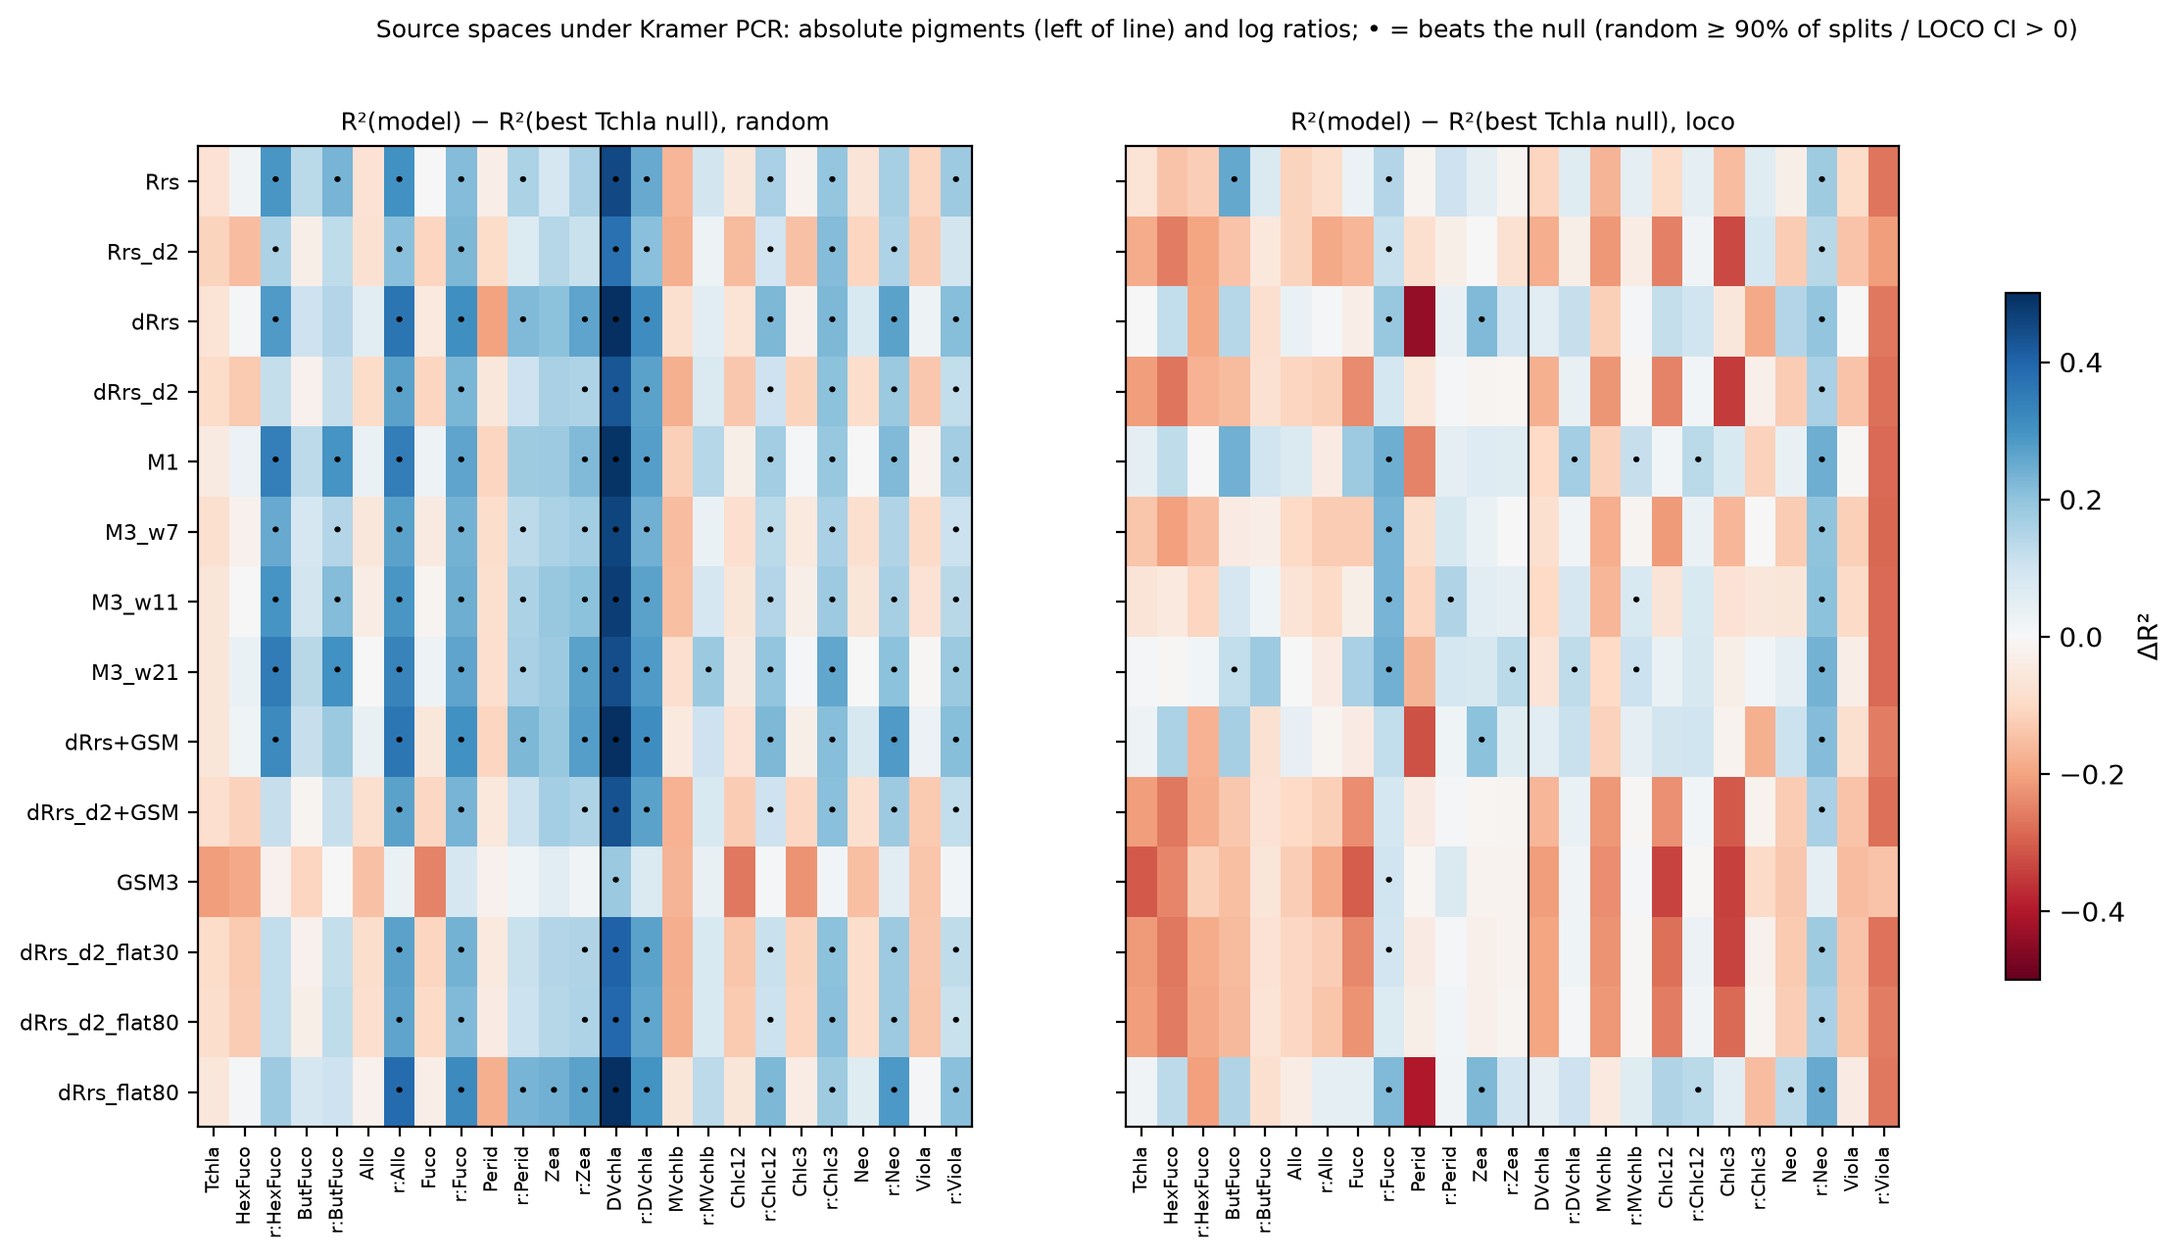
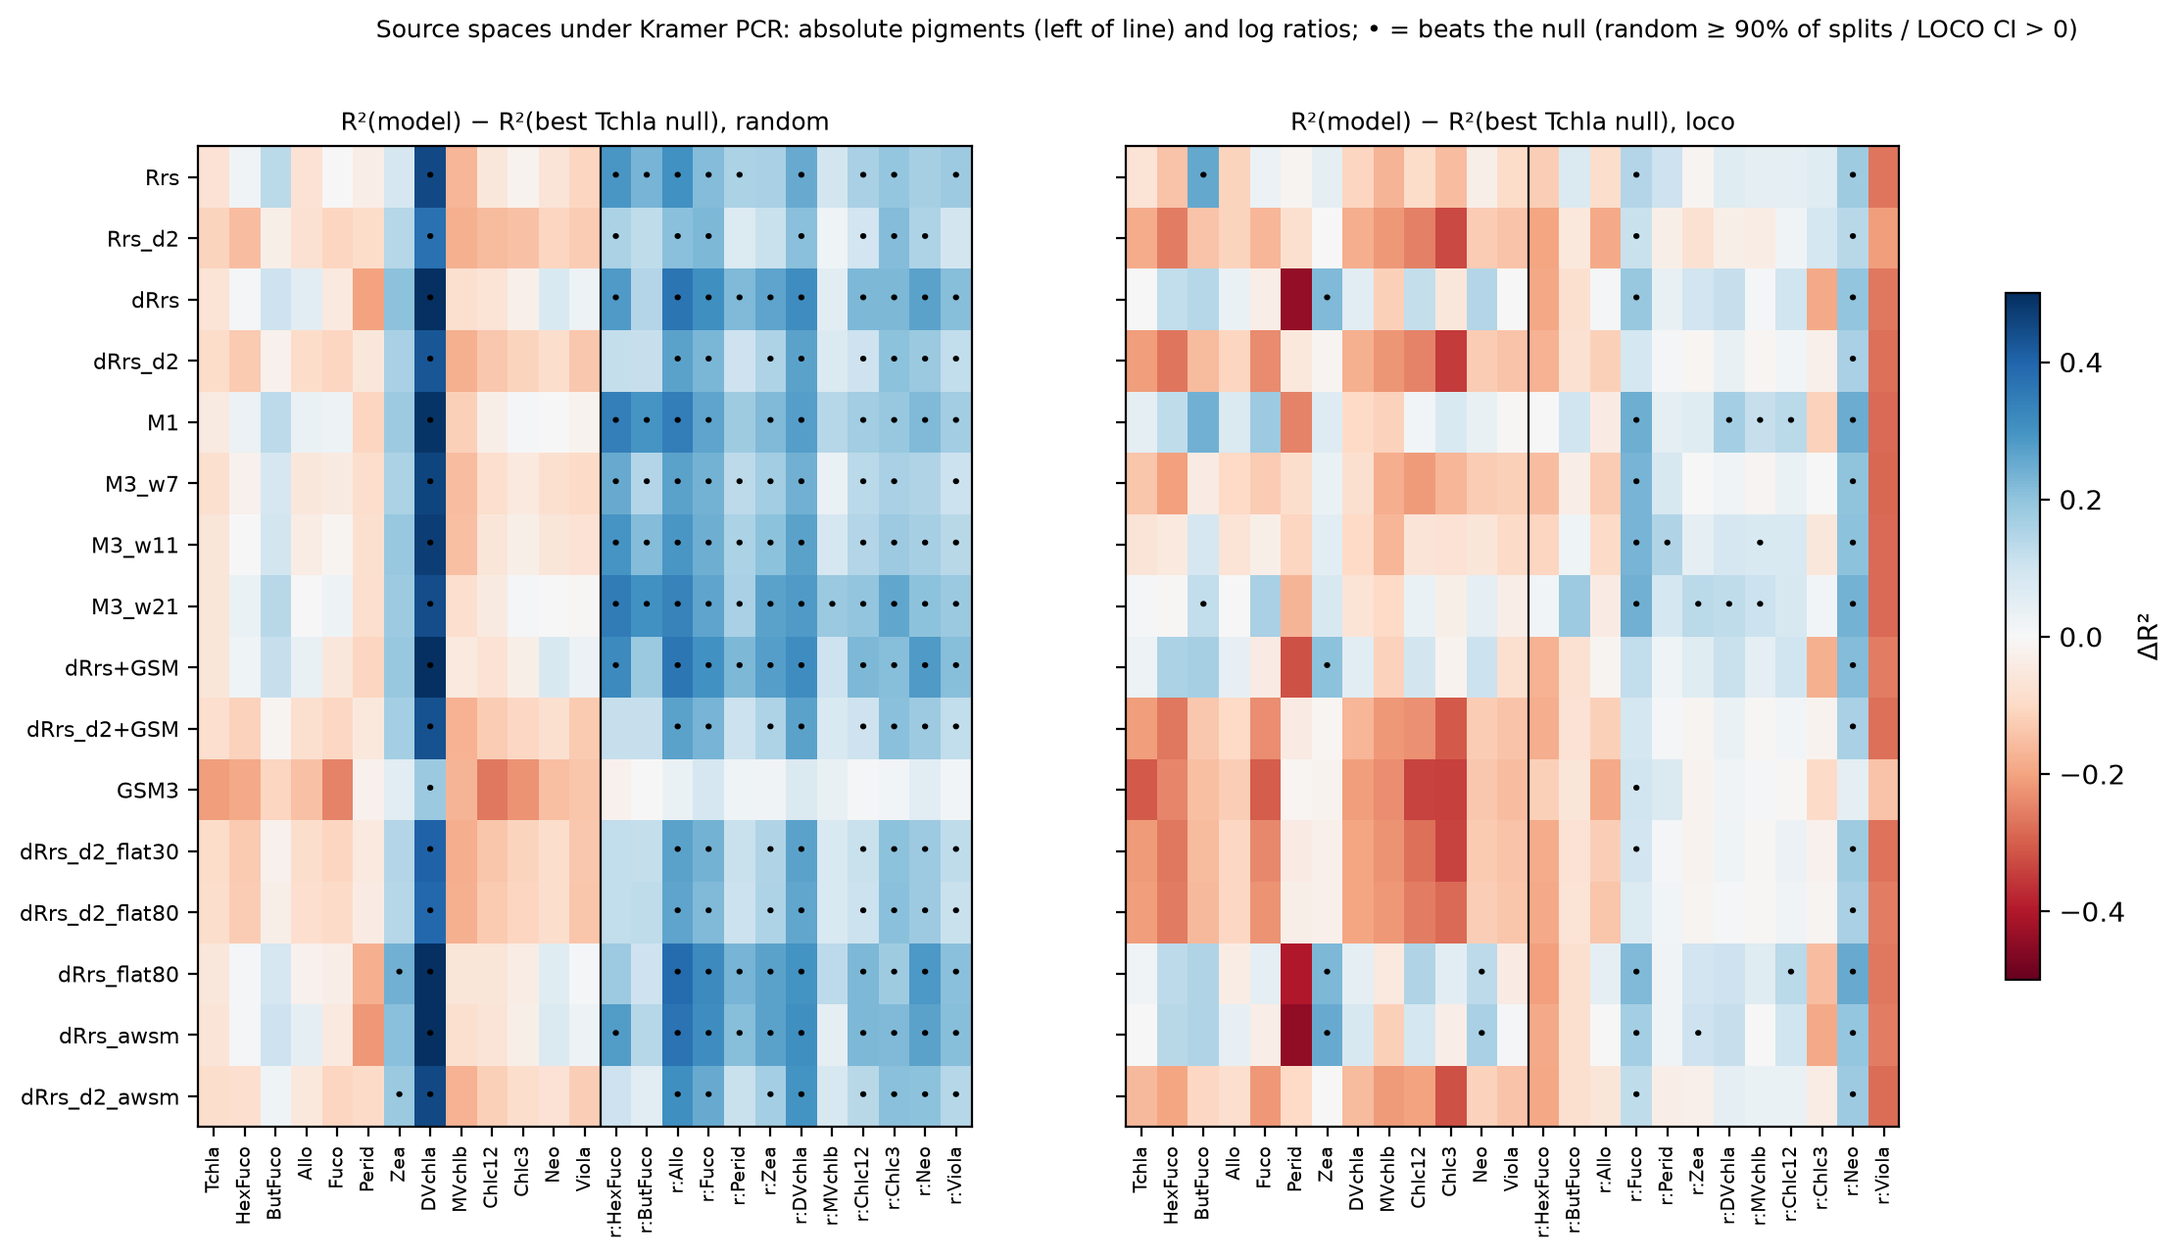
5

diff --git a/scripts/sdp/source_spaces.py b/scripts/sdp/source_spaces.py
@@ -21,6 +21,8 @@ Predictor spaces (N = 145):
 ``dRrs_d2_flat30``  δRrs'' with A,B Gaussian-smoothed (FWHM 30 nm) in the GSM fit
 ``dRrs_d2_flat80``  the same with FWHM 80 nm
 ``dRrs_flat80``     δRrs with FWHM-80 nm tables
+``dRrs_awsm``       δRrs with a_w, A, B smoothed like the data (5 nm mean)
+``dRrs_d2_awsm``    its ``diff(·, 2)``
 ==================  ==========================================================
 
 Also: how much of the Rrs'' variance the GSM model's own curvature
@@ -33,6 +35,7 @@ rows), ``source_spaces_summary.csv``, ``source_spaces_heatmap.png``,
 Run with::
 
     conda run -n ocean14 python scripts/sdp/source_spaces.py
+    conda run -n ocean14 python scripts/sdp/source_spaces.py --replot   # figure only
 """
 import datetime
 import json
@@ -99,7 +102,18 @@ def build_spaces(data, z):
         spaces[f'dRrs_d2_flat{fw}'] = d2(fit.dRrs)
         if fw == 80:
             spaces['dRrs_flat80'] = fit.dRrs
-    return spaces, flat_info
+    # Consistent smoothing: the deposited Rrs carry a 5 nm moving mean, the a_w
+    # table does not. Smooth a_w (and A, B) the same way before the GSM fit.
+    sm = lambda x: np.r_[x[:2], spectral.moving_mean(x, 5)[2:-2], x[-2:]]  # noqa: E731
+    t_sm = gsm.RefTables(w, sm(tables.A), sm(tables.B), sm(tables.aw),
+                         dict(tables.source, smoothed='5 nm moving mean (A, B, aw)'))
+    fit = gsm.fit_gsm(w, data.Rrs, T, S, tables=t_sm)
+    flat_info['aw_smoothed'] = {'n_converged': int(fit.converged.sum()),
+                                'dRrs_d2_corr_with_original': float(np.corrcoef(
+                                    d2(fit.dRrs).ravel(), d2(dRrs).ravel())[0, 1])}
+    spaces['dRrs_awsm'] = fit.dRrs
+    spaces['dRrs_d2_awsm'] = d2(fit.dRrs)
+    return spaces, flat_info, fit
 
 
 def curvature_budget(data, z):
@@ -143,6 +157,9 @@ def summarize(df):
 def heatmap(df, path):
     order = list(dict.fromkeys(df['model']))
     targets = list(dict.fromkeys(df.index))
+    targets = ([t for t in targets if t.startswith('abs:')]
+               + [t for t in targets if t.startswith('ratio:')])
+    n_abs = sum(t.startswith('abs:') for t in targets)
     fig, axes = plt.subplots(1, 2, figsize=(14, 6.5), sharey=True)
     for ax, scheme in zip(axes, ('random', 'loco')):
         M = np.full((len(order), len(targets)), np.nan)
@@ -155,7 +172,7 @@ def heatmap(df, path):
                            rotation=90, fontsize=7)
         ax.set_yticks(range(len(order)))
         ax.set_yticklabels(order, fontsize=8)
-        ax.axvline(12.5, color='k', lw=0.8)
+        ax.axvline(n_abs - 0.5, color='k', lw=0.8)
         ax.set_title(f'R²(model) − R²(best Tchla null), {scheme}', fontsize=9)
         for i, m in enumerate(order):
             g = df[df.model == m]
@@ -172,13 +189,19 @@ def heatmap(df, path):
 
 def main():
     OUT.mkdir(parents=True, exist_ok=True)
+    if '--replot' in sys.argv:
+        heatmap(pd.read_csv(OUT / 'source_spaces_table.csv', index_col=0),
+                OUT / 'source_spaces_heatmap.png')
+        return
     data = sdpdata.load_kramer2022()
     gsm_prod = sdpdata.kramer2022_dir() / 'products' / 'gsm_dRrs_insitu.npz'
     z = np.load(gsm_prod)
     bench = V.Benchmark(data.pigments13, z['params'][:, 0], V.oc4v6(data.wave, data.Rrs),
                         data.meta['campaign'].to_numpy(), n_perm=100, seed=SEED)
-    spaces, flat_info = build_spaces(data, z)
+    spaces, flat_info, fit_awsm = build_spaces(data, z)
     budget = curvature_budget(data, z)
+    budget_awsm = curvature_budget(data, {'Rrs_mod': fit_awsm.Rrs_mod})
+    print('curvature budget (aw smoothed):', budget_awsm)
     print('curvature budget:', budget)
     print('flat-baseline GSM fits:', flat_info)
 
@@ -202,6 +225,7 @@ def main():
                          'lods': bench.lods, 'loco': bench.loco_names},
            'n_features': {k: int(v.shape[1]) for k, v in spaces.items()},
            'm1_alpha': spectral.EH_ALPHA, 'curvature_budget': budget,
+           'curvature_budget_aw_smoothed': budget_awsm,
            'flat_baselines': flat_info, 'summary': json.loads(summ.to_json(orient='index')),
            'run_utc': datetime.datetime.now(datetime.timezone.utc).isoformat(timespec='seconds')}
     with open(OUT / 'source_spaces_summary.json', 'w', encoding='utf-8') as fh:

diff --git a/epft_up/tests/test_sdp_gsm.py b/epft_up/tests/test_sdp_gsm.py
@@ -154,7 +154,8 @@ def test_spline_residual_removes_smooth_keeps_bump():
     smooth = 0.004 * np.exp(-(w - 400) / 120)
     bump = 2e-5 * np.exp(-0.5 * ((w - 550) / 4)**2)
     r = spectral.spline_residual(w, np.vstack([smooth, smooth + bump]))
-    assert np.max(np.abs(r[0])) < 0.05 * 2e-5 * 10   # smooth part ~ removed
+    # the smooth part is removed to < 0.5% of the spectrum (M1 is a heavy spline)
+    assert np.max(np.abs(r[0])) < 0.005 * smooth.max()
     assert r[1][150] - r[0][150] > 0.5 * 2e-5        # narrow bump retained
 
 

diff --git a/reports/SDP_Claude_Report.md b/reports/SDP_Claude_Report.md
@@ -1,7 +1,7 @@
 # The 2nd-derivative (SDP) approach to phytoplankton pigments from hyperspectral Rrs
 
 **Author:** Claude (Opus 5.5), for J. Xavier Prochaska
-**Status:** in progress. §3 (Data), §4 (reproduction) and §6.1–6.2 (diagnostics) are written; the other sections are outlines
+**Status:** in progress. §3 (Data), §4 (reproduction) and §6 (diagnostics) are written; the other sections are outlines
 that later Execution prompts in `claude_prompts/2nd_derivative_prompts.md` fill
 in.
 **Scope:** a reproduction and critique of Kramer, Siegel, Maritorena & Catlett
@@ -585,6 +585,142 @@ within-cruise similarity. The question for §6.3 and §7 is whether a
 different predictor space or a regularized, noise-aware weighting can make
 the compositional signal transfer.
 ### 6.3 What the residual buys (source-space comparison)
+
+**Standard scorecard from here on.** `validate.Benchmark` fixes the 25
+targets (13 absolute pigments and 12 log₁₀ ratios), the splits (100 random
+and LOCO) and the baselines (Tchla nulls; a constant ratio). Every model in
+§6.3–§8 is judged on two things together: **skill above the best Tchla null
+and skill under LOCO**. Reported per target:
+- R²;
+- ΔR² vs the best null;
+- "beats null, random": the model wins in ≥ 90% of paired splits;
+- "beats null, LOCO": the bootstrap 95% CI of ΔR² is above 0.
+
+Running PCR on δRrs'' through the Benchmark reproduces §6.1–6.2 exactly.
+The script is `scripts/sdp/source_spaces.py`; the outputs are
+`source_spaces_table.csv` (every model × target),
+`source_spaces_summary.csv` and `source_spaces_summary.json`.
+
+**Predictor spaces, all with Kramer's PCR, N = 145:**
+
+| Space | What it is |
+|---|---|
+| Rrs | measured spectra (like Lange et al. 2020's PCR, without SST) |
+| Rrs'' | `diff(Rrs, 2)` |
+| δRrs | Kramer's residual |
+| δRrs'' | the paper's predictor |
+| M1 | El Hourany & Kramer (2026) spline residual of rrs (csaps p = 0.0005, penalty rescaled from their 2.5 nm grid to 1 nm) |
+| M3 (7/11/21 nm) | El Hourany M3: Savitzky–Golay (order 3) 2nd derivative of rrs. Their window is not given; three tried |
+| δRrs ⊕ GSM, δRrs'' ⊕ GSM | plus log₁₀ Tchla_GSM, log₁₀ a_dg(443), b_bp(443) |
+| GSM3 | the three GSM parameters alone |
+| δRrs''_flat30/80, δRrs_flat80 | GSM refitted with A(λ),B(λ) Gaussian-smoothed (FWHM 30, 80 nm): a featureless a_ph baseline |
+| δRrs_awsm, δRrs''_awsm | GSM refitted with a_w, A, B given the same 5 nm moving mean as the deposited Rrs (see below) |
+
+**Summary.** Means over the 13 absolute and 12 ratio targets. The counts
+are the number of targets that beat the Tchla null.
+
+| Space | abs R², random | abs R², LOCO | abs beats null (rand / LOCO) | ratio log-R², random | ratio log-R², LOCO | ratio beats null (rand / LOCO) | ratio LOCO RMS < const |
+|---|---|---|---|---|---|---|---|
+| Rrs | 0.56 | 0.32 | 1 / 1 | 0.42 | 0.22 | 9 / 2 | 8 |
+| Rrs'' | 0.49 | 0.20 | 1 / 0 | 0.36 | 0.16 | 7 / 2 | 7 |
+| δRrs | 0.60 | 0.38 | 1 / 1 | 0.46 | 0.20 | 10 / 2 | 7 |
+| **δRrs'' (paper)** | 0.51 | **0.19** | 1 / 0 | 0.38 | **0.17** | 8 / 1 | 9 |
+| M1 | 0.59 | **0.40** | 1 / 0 | 0.46 | 0.26 | 10 / **5** | 10 |
+| M3, 7 nm | 0.55 | 0.25 | 1 / 0 | 0.39 | 0.19 | 10 / 2 | 8 |
+| M3, 11 nm | 0.56 | 0.31 | 1 / 0 | 0.42 | 0.23 | 11 / 4 | 10 |
+| **M3, 21 nm** | 0.59 | 0.37 | 1 / 1 | **0.47** | **0.27** | **12 / 5** | **11** |
+| δRrs ⊕ GSM | 0.60 | 0.39 | 1 / 1 | 0.47 | 0.20 | 10 / 1 | 7 |
+| δRrs'' ⊕ GSM | 0.52 | 0.20 | 1 / 0 | 0.38 | 0.17 | 8 / 1 | 9 |
+| GSM3 | 0.43 | 0.17 | 1 / 0 | 0.25 | 0.17 | 0 / 1 | 8 |
+| δRrs''_flat30 | 0.50 | 0.19 | 1 / 0 | 0.39 | 0.17 | 8 / 2 | 9 |
+| δRrs''_flat80 | 0.51 | 0.20 | 1 / 0 | 0.38 | 0.16 | 8 / 1 | 9 |
+| δRrs_flat80 | 0.59 | **0.40** | 2 / 2 | 0.46 | 0.22 | 9 / 3 | 8 |
+| δRrs_awsm | 0.59 | 0.39 | 1 / 2 | 0.46 | 0.20 | 10 / 3 | 7 |
+| δRrs''_awsm | 0.52 | 0.21 | 2 / 0 | 0.39 | 0.18 | 8 / 2 | 9 |
+
+![Source-space heat map](figures/sdp/source_spaces_heatmap.png)
+
+*ΔR² against the best Tchla null for every space (rows) and target
+(columns; absolute pigments left of the line, log ratios right), for random
+splits (left) and LOCO (right). Dots mark targets that beat the null.*
+
+**Targets that beat the Tchla null under LOCO** (R² vs best-null R²):
+- **Fuco:Tchla** beats it with M1 (0.56 vs 0.31), M3 21 nm (0.55),
+  δRrs_flat80 (0.53), δRrs (0.50) and raw Rrs (0.46). It does **not** with
+  δRrs'' (0.40; CI includes 0).
+- **DVchla:Tchla** with M1 (0.49 vs 0.32) and M3 21 nm (0.45).
+- **Zea:Tchla** with M3 21 nm (0.48 vs 0.35).
+- **Chlc12:Tchla** with M1 and δRrs_flat80 (0.40 vs 0.27).
+- MVchlb:Tchla with M1 and M3 21 nm, but at low R² (0.16 vs 0.04).
+- Among absolute concentrations: Zea with δRrs (0.25 vs 0.02) and ButFuco
+  with raw Rrs and M3 21 nm.
+- Neo:Tchla appears for every space but is the zero-replacement artifact of
+  §6.1.
+
+No space beats the null on absolute Tchla under LOCO. The best are M1 (0.70)
+and δRrs (0.66), against the GSM null's 0.66.
+
+**What this says about the derivative and the residual:**
+
+1. **The second derivative is the harmful step.** Every
+   finite-difference space (Rrs'', δRrs'', δRrs'' ⊕ GSM, δRrs''_flat,
+   δRrs''_awsm) has the lowest LOCO skill, about 0.19–0.21 absolute and
+   0.16–0.18 ratio. The same information without differentiating does about
+   twice as well out of campaign: δRrs 0.38, M1 0.40. M3 shows the same
+   effect smoothly: widening the Savitzky–Golay window from 7 to 11 to
+   21 nm raises LOCO skill monotonically (absolute 0.25 → 0.31 → 0.37;
+   ratio 0.19 → 0.23 → 0.27). This is the noise-amplification argument of
+   Q&A #11 seen empirically. Differentiation boosts the highest
+   frequencies, where the deposit is at its rounding floor (§3.4) and where
+   campaign-specific instrument structure lives (§6.2). Within a campaign
+   the PCR can exploit those frequencies (random-split skill is only modestly
+   lower); across campaigns they do not transfer.
+2. **The residual step helps a little, and only without the derivative.**
+   δRrs vs raw Rrs: LOCO absolute 0.38 vs 0.32. But δRrs'' (0.19) is no
+   better than Rrs'' (0.20). M1, a purely empirical spline residual with no
+   bio-optical model, does as well as or better than δRrs, so the
+   semi-analytical GSM is not what helps. What helps is removing the
+   broad-scale envelope.
+3. **The NOMAD a_ph features in the GSM baseline are irrelevant.**
+   - Replacing A(λ), B(λ) by 30 or 80 nm-smoothed versions changes δRrs''
+     by < 0.5% (r = 0.996–0.997).
+   - The GSM Tchla retrieval is unaffected (log-R² 0.72 for every baseline).
+   - Every score is unchanged within noise; δRrs_flat80 is in fact
+     marginally the best absolute space under LOCO.
+   - So δRrs is not a "compositional anomaly relative to a mean NOMAD
+     community" (Q&A §C-10): the model's pigment features barely enter it.
+     It is, to a good approximation, Rrs minus a smooth, Tchla- and
+     IOP-scaled envelope.
+4. **A smoothing mismatch artifact in δRrs''.** The deposited Rrs carry the
+   5 nm moving mean, but Rrs_mod is built from the 1 nm pure-water
+   absorption table without it. The fine structure of a_w, scaled differently
+   in every spectrum, therefore enters Rrs_mod''. As a result:
+   - The model curvature has **1.30×** the across-sample variance of the
+     measured Rrs''.
+   - Subtracting it **raises** the variance: var(δRrs'') = 1.52 × var(Rrs'').
+   - Smoothing a_w the same way as the data drops the model curvature to
+     0.64× and δRrs'' to 0.99× var(Rrs''). The resulting δRrs'' correlates
+     only 0.61 with the published one. Smoothing A and B instead changes
+     nothing (r = 0.99998).
+
+   This is an inconsistency in the published pipeline. We reproduce it, so
+   Kramer's own δRrs'' presumably carries it too. The PCR is fairly
+   insensitive to it (LOCO absolute 0.21 vs 0.19 once fixed), because
+   z-scoring and PC truncation down-weight it, but it is a genuine artifact.
+5. **GSM parameters add nothing linear.** Appending log Tchla_GSM, a_dg(443)
+   and b_bp(443) to δRrs changes little (0.39 vs 0.38 absolute LOCO). On
+   their own they are weaker than the two-parameter null (abs 0.43 vs ≈0.55
+   random), because a linear PCR on log Tchla is the wrong functional form
+   for concentration. The null's power law is the right one.
+
+**Implications for §7.** The most promising inputs are spaces that remove the
+broad envelope without amplifying high frequencies: δRrs (with consistent
+smoothing), M1, or M3 with wide windows. The target should be the log
+pigment:Tchla ratio. Fuco:Tchla and the cyanobacterial ratios
+(DVchla:Tchla, Zea:Tchla) are the only compositional signals that pass both
+tests here. A learned wavelength weighting should explicitly penalize the
+high-frequency structure (a smoothness prior and noise whitening), which is
+exactly what the derivative + z-score recipe fails to do.
 
 ## 7. Alternatives: a learned wavelength weighting — *Execution #7*
 

diff --git a/claude_prompts/2nd_derivative_prompts.md b/claude_prompts/2nd_derivative_prompts.md
@@ -852,3 +852,53 @@ Findings (N=145; N=144 gives the same verdicts):
 Not a stop-and-ask: these are new tests that the paper did not run, not
 contradictions of a quoted number. They are, however, the most consequential
 result so far, so they are worth discussing before #7.
+
+### 2026-10-03 (Execution #5: source-space comparison; standard Benchmark)
+
+User instruction (2026-10-02): from here on, models must be judged on
+**both** held-out-campaign skill and skill above the Tchla null. This is
+implemented as a reusable scorecard:
+- `validate.Benchmark`: 25 targets (13 absolute pigments plus 12 log10
+  ratios), 100 random and LOCO splits, cached baselines (null_GSM,
+  null_OC4, const). `evaluate(fitter_factory, label)` returns, per target,
+  R², ΔR² vs the best null, the paired-win fraction (random), the bootstrap
+  CI (LOCO), `beats_null_random` / `beats_null_loco`, and ratio RMS vs the
+  constant. `pcr_factory(X)` gives Kramer's PCR. It reproduces #4's numbers
+  exactly.
+- `spectral.py`: `spline_residual` (El Hourany M1; csaps p = 0.0005 with the
+  penalty rescaled 2.5 nm → 1 nm) and `savgol_second_derivative` (M3; the
+  window is not given in the paper, so 7, 11 and 21 nm are tried).
+- `gsm.py`: `smoothed_tables(tables, fwhm)` (featureless a_ph baseline).
+- `scripts/sdp/source_spaces.py`: 16 predictor spaces through the
+  Benchmark, plus a curvature budget; `--replot`. Figures and tables are in
+  `reports/figures/sdp/source_spaces_*`.
+- Tests: 2 Benchmark tests and 3 transform tests. Full suite: 75 passed. I
+  relaxed one of my new tests: M1's heavy spline leaves ~0.4% of a smooth
+  exponential, which is expected behaviour.
+- Report §6.3 written.
+
+Findings:
+- **The 2nd derivative is the harmful step.** All finite-difference spaces
+  have the worst LOCO skill (absolute ≈ 0.19–0.21, ratio ≈ 0.16–0.18). The
+  undifferentiated δRrs (0.38) and M1 (0.40) do about twice as well. M3's
+  LOCO skill rises monotonically with the SG window (7 → 21 nm: abs 0.25 →
+  0.37, ratio 0.19 → 0.27).
+- The residual helps only without the derivative (δRrs 0.38 vs Rrs 0.32;
+  δRrs'' 0.19 ≈ Rrs'' 0.20). The purely empirical M1 matches or beats δRrs,
+  so it is envelope removal, not the GSM physics, that helps.
+- **The NOMAD a_ph features are irrelevant:** 30/80 nm-smoothed A,B change
+  δRrs'' by < 0.5% and leave all scores unchanged.
+- **A smoothing-mismatch artifact:** the deposited Rrs are 5 nm smoothed but
+  the 1 nm a_w table is not. Its fine structure enters Rrs_mod'', so the
+  model curvature has 1.30× the variance of Rrs'' and var(δRrs'') =
+  1.52 × var(Rrs''). With a_w smoothed consistently: 0.64× and 0.99×, and
+  r = 0.61 with the published δRrs''. This is present in Kramer's pipeline
+  too (we match the port's coefficients). PCR is only mildly affected (LOCO
+  0.21 vs 0.19).
+- Out of campaign, the compositional signals that beat the Tchla null are
+  Fuco:Tchla (M1 0.56, M3 21 nm 0.55, δRrs 0.50 vs null 0.31; not with
+  δRrs''), DVchla:Tchla (M1 0.49, M3 21 nm 0.45 vs 0.32), Zea:Tchla (M3
+  21 nm 0.48 vs 0.35) and Chlc12:Tchla (M1, δRrs_flat80 0.40 vs 0.27).
+  Neo:Tchla is a zero artifact. No space beats the null on absolute Tchla.
+- Best spaces for #7: δRrs (consistent smoothing), M1, and wide-window M3,
+  with log ratios as the target.
